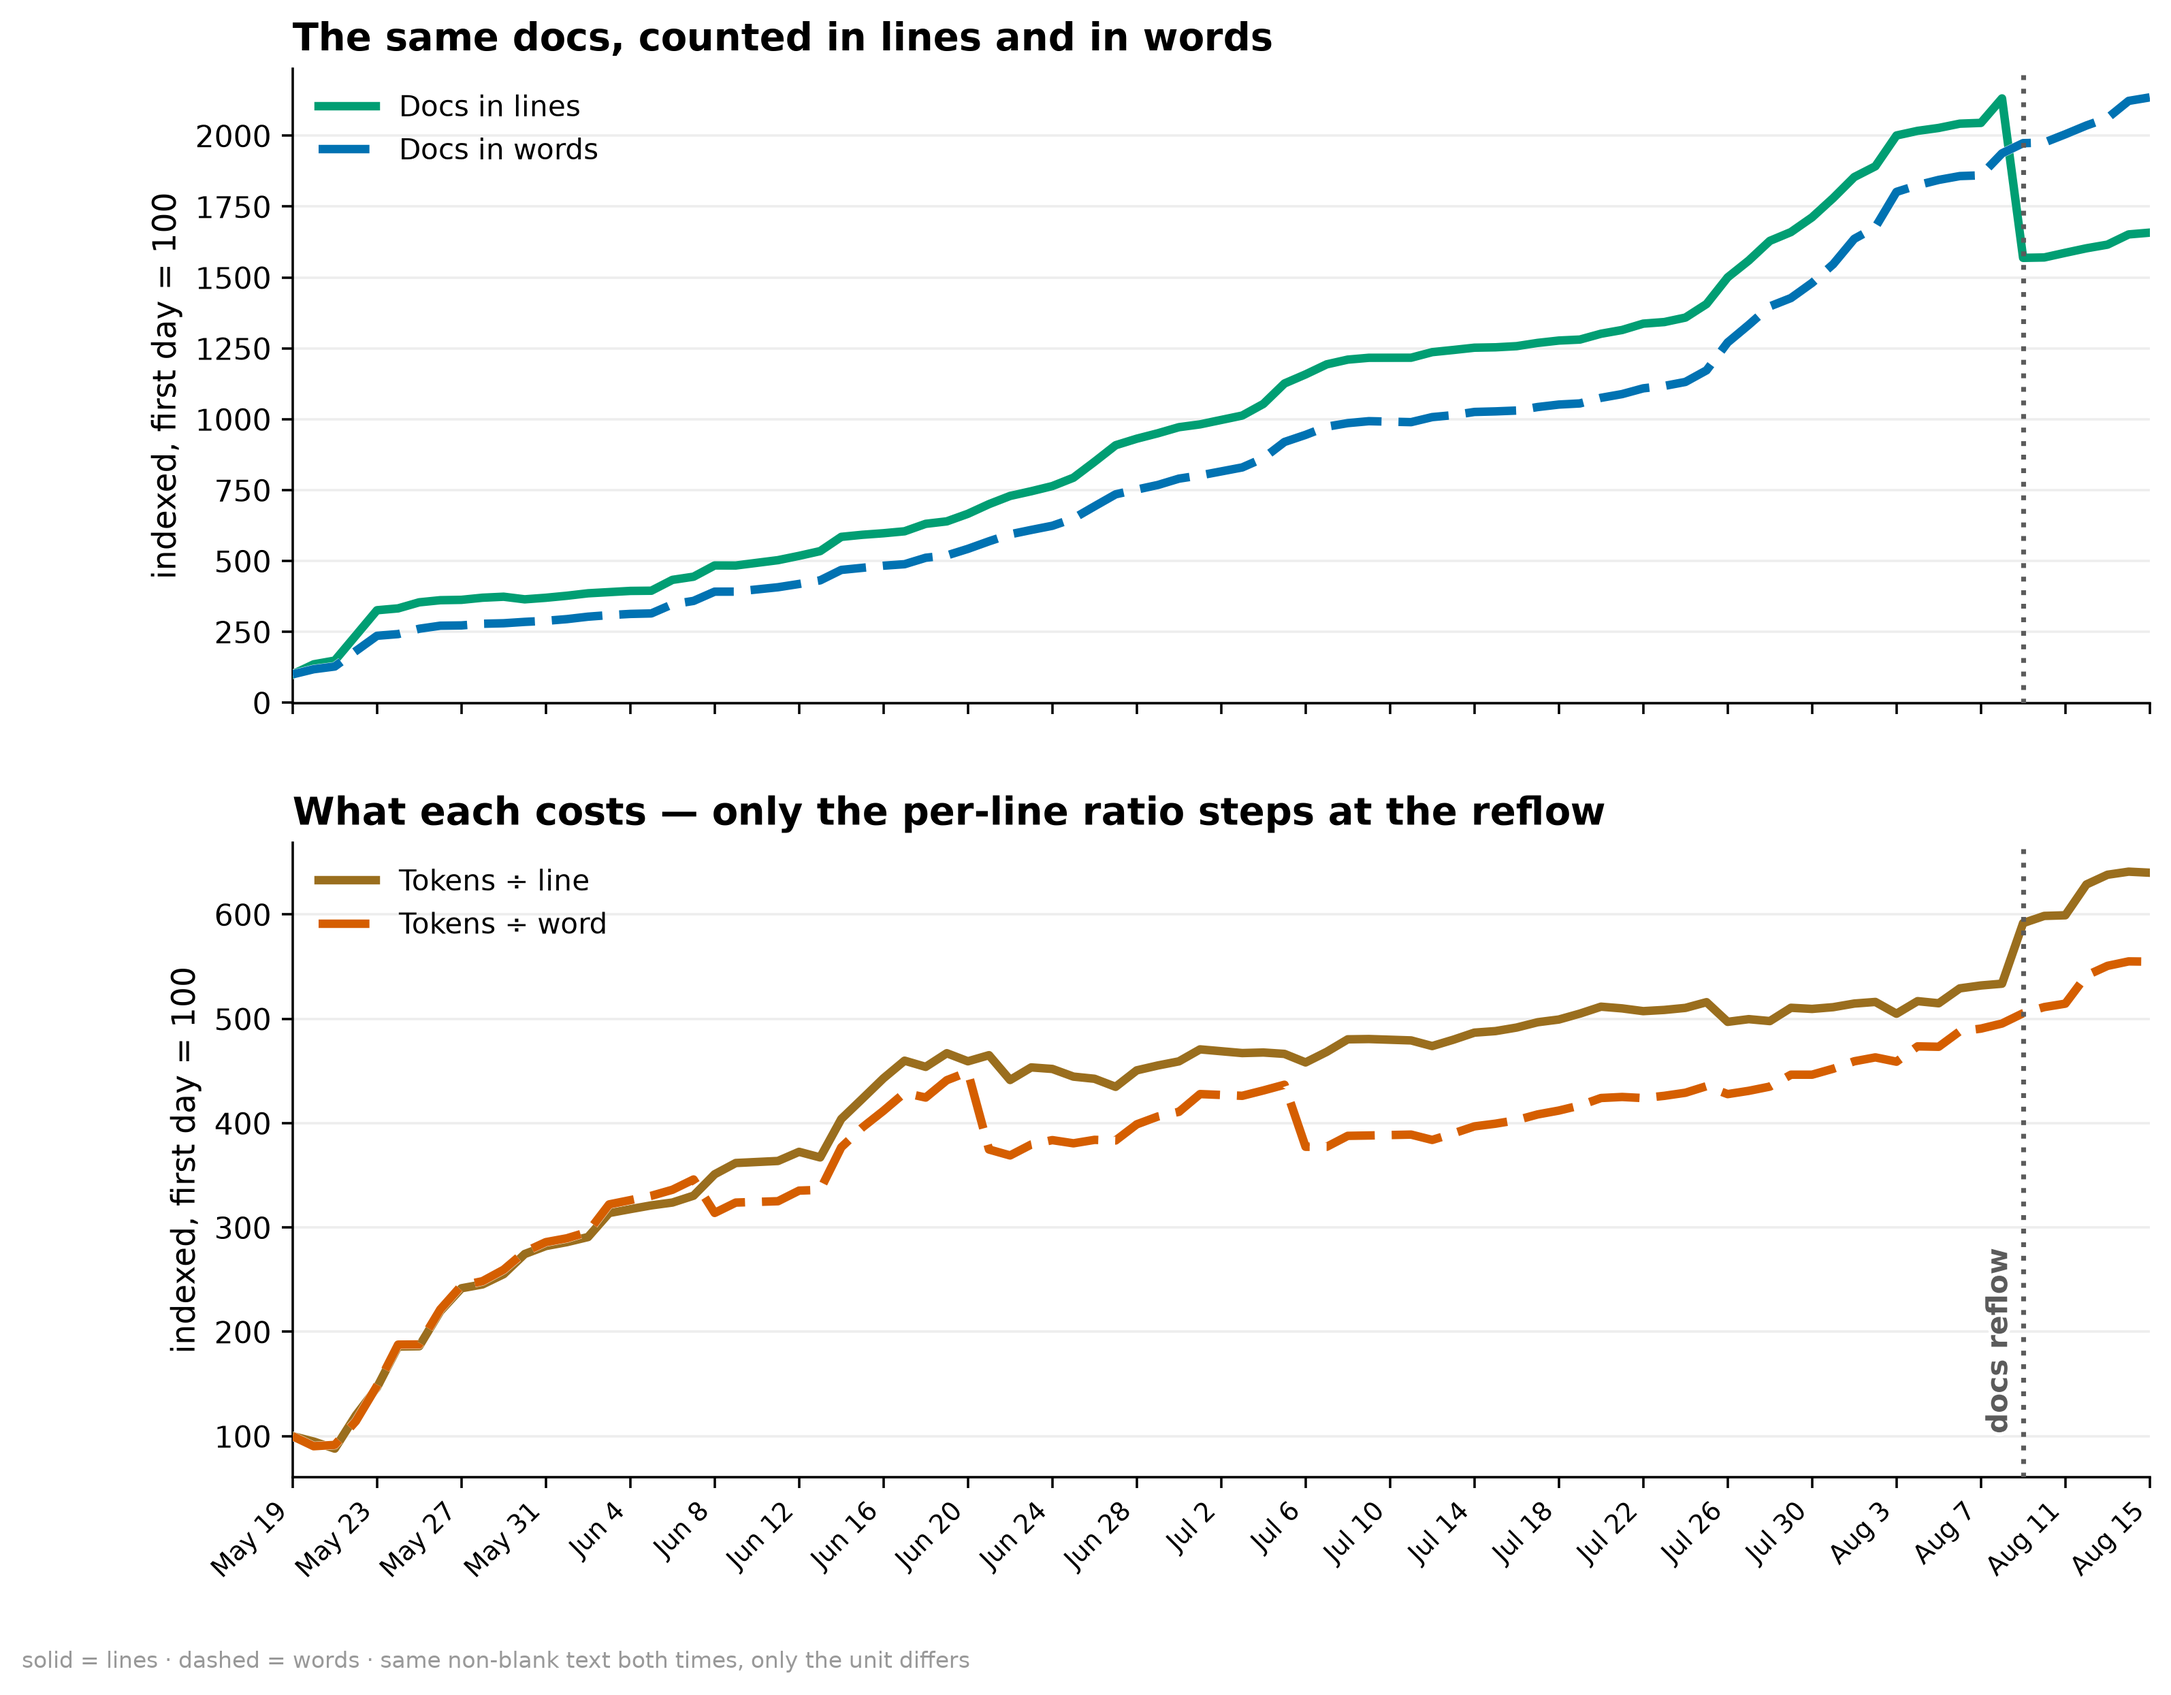
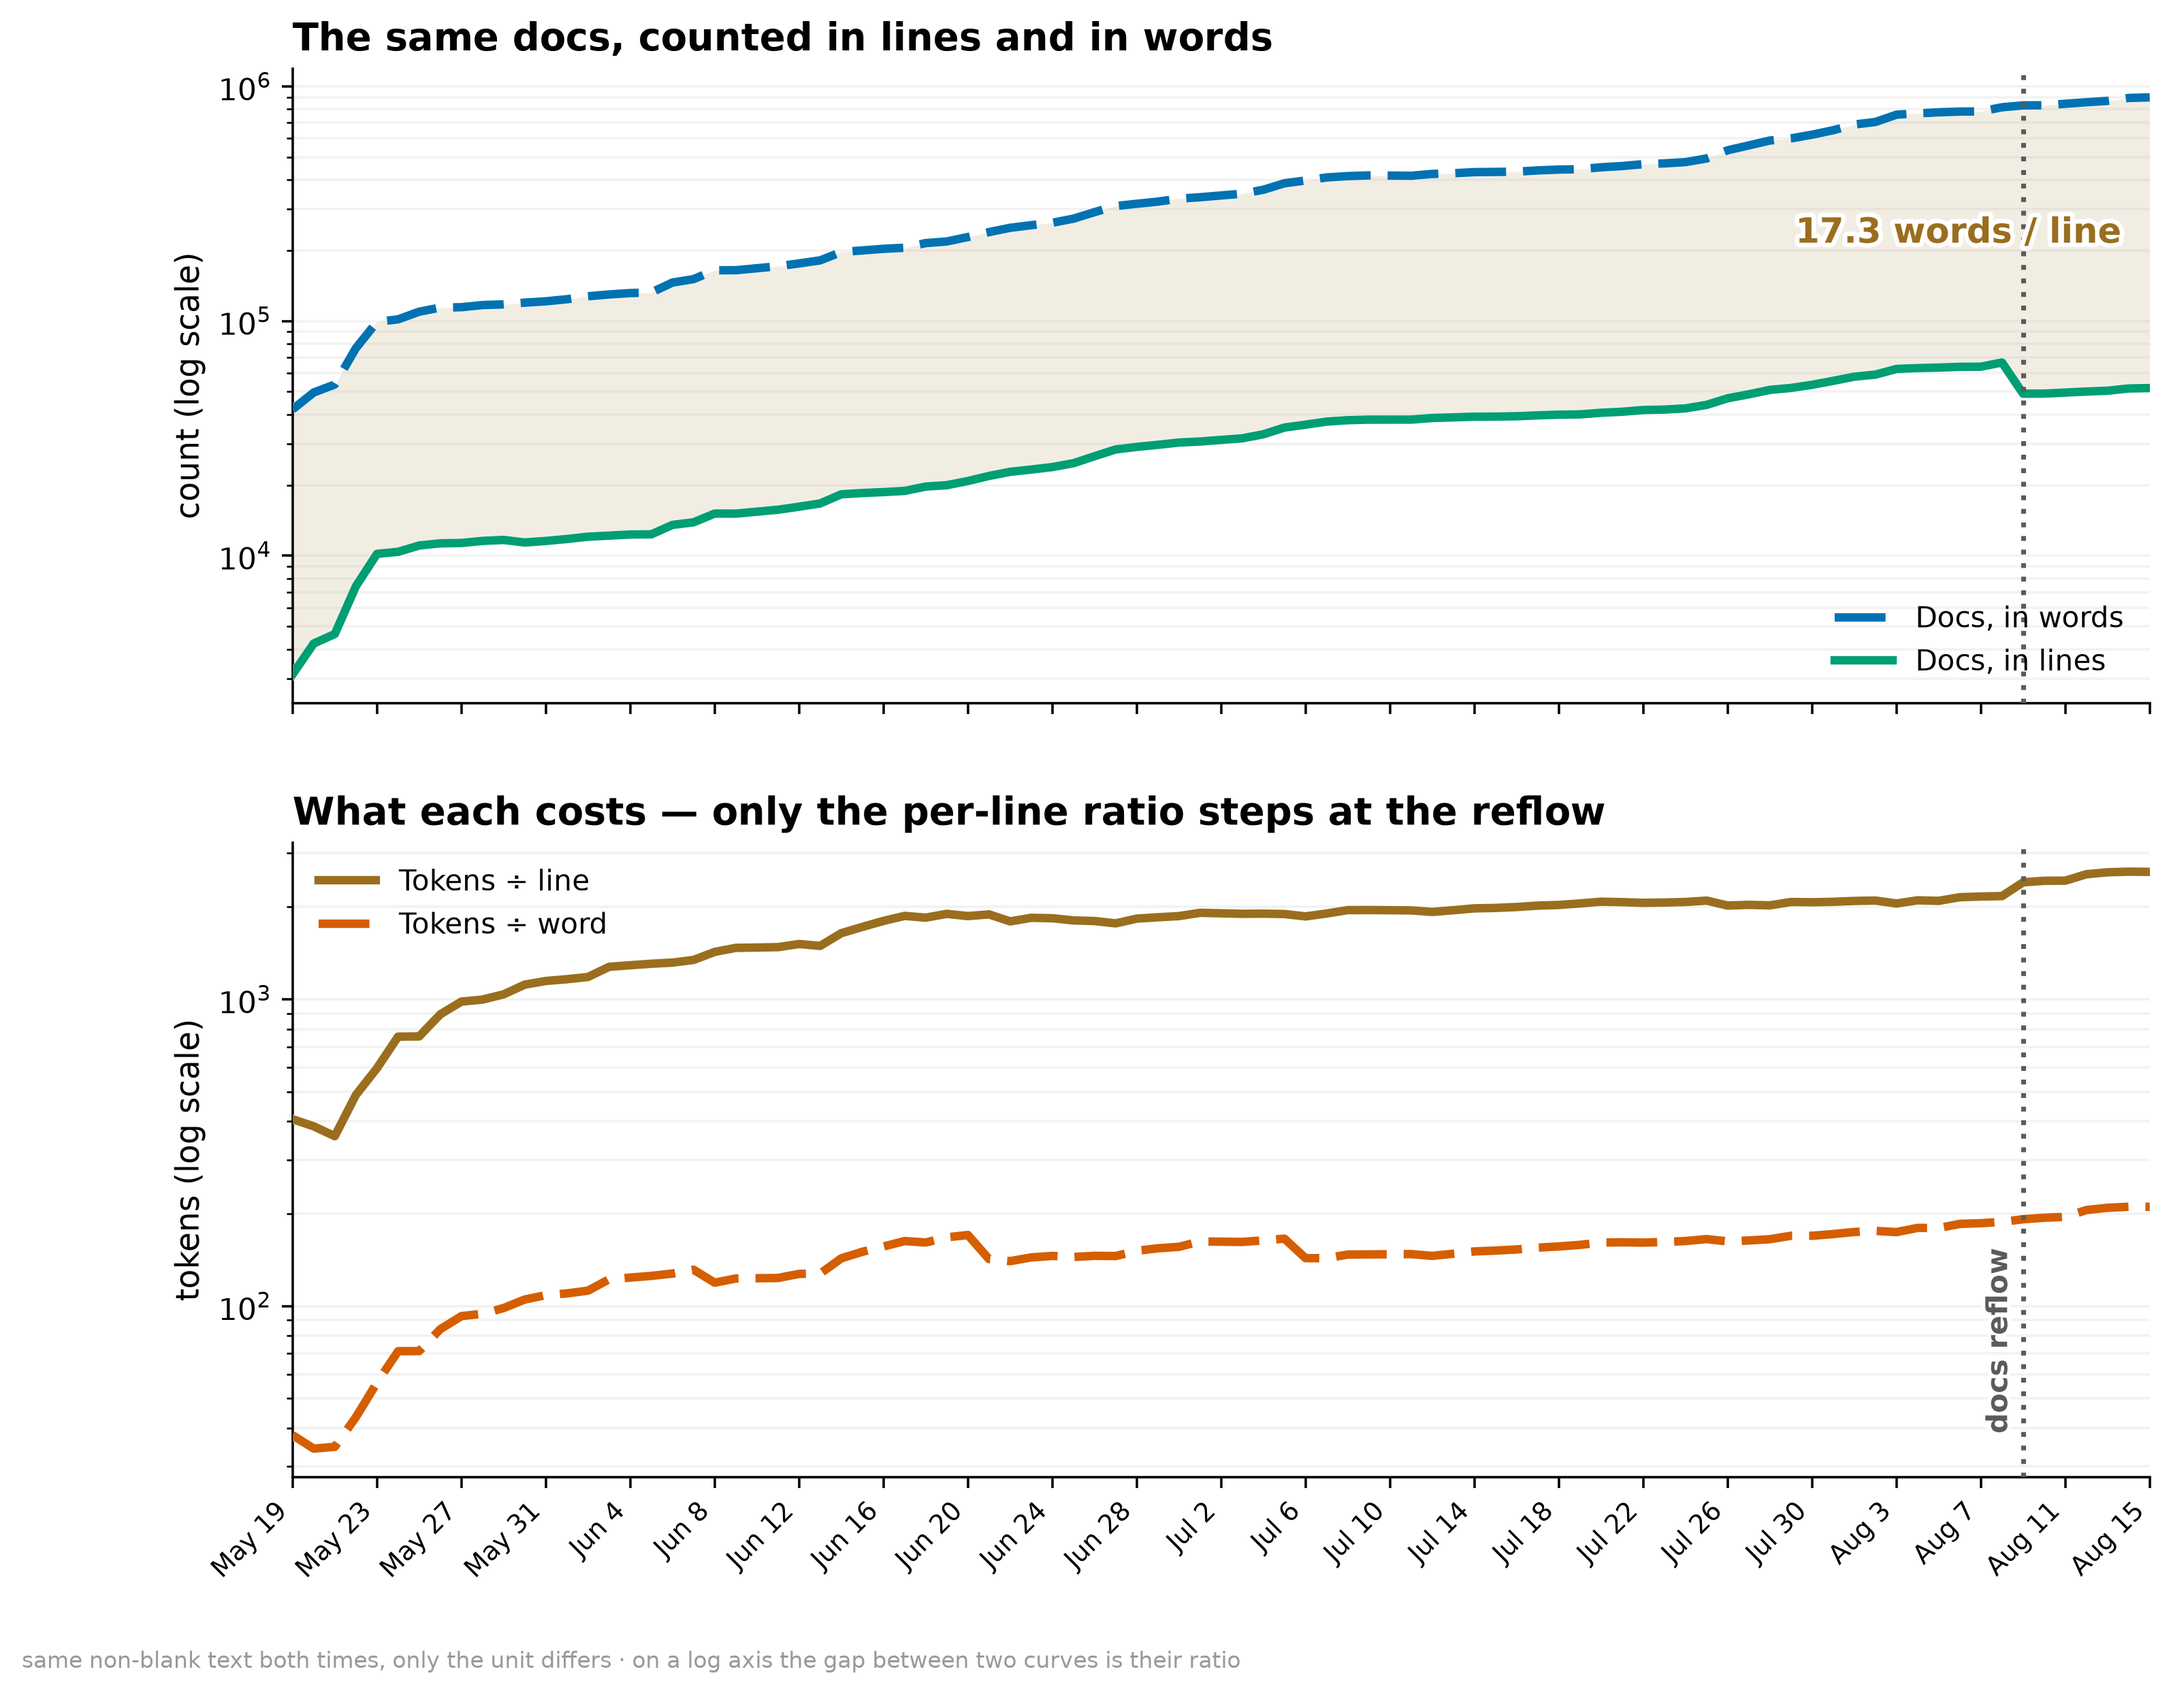
fix(metrics): draw lines vs words as absolute counts on a log axis
Indexing both series to 100 at the first day was the wrong call. It reads as
magnitude and is not, so two series 17x apart drew on top of each other and the
panel invited exactly the question "why are the lines so close together?".

Log y with absolute counts is what chart_tokens_vs_lines already does for the
same reason, and it pays twice: words sit visibly an order of magnitude above
lines, and the shaded gap between them is the words-per-line ratio, because on a
log axis a ratio is a vertical gap. That gap is the reflow mechanism made
legible. Sentence-per-line put the same words on fewer lines, so words per line
went 12.2 to 16.9 overnight and the band widens where the green curve cliffs.

Panel 2 keeps both cost ratios and moves its legend upper-left, where the reflow
markers rotated label no longer runs through it.

diff --git a/claude-usage/make_charts.py b/claude-usage/make_charts.py
@@ -950,41 +950,53 @@ def chart_lines_vs_words():
     alone, so drawing both puts the 2026-08-09 reflow where it belongs: a cliff in
     one series and nothing in the other.
 
-    Both panels are indexed to 100 at the first measured day and share one axis.
-    On twin axes each series is scaled to its own range, which flattens exactly the
-    divergence this chart exists to show — the per-line and per-word ratios looked
-    alike there while one had stepped and the other had not.
+    Log y, absolute counts, the same choice `chart_tokens_vs_lines` makes: words
+    outnumber lines by an order of magnitude, and on a linear axis the smaller
+    series is a sliver. Indexing both to a common baseline was worse still — it
+    reads as magnitude and is not, so two series 17x apart drew on top of each
+    other. On a log axis the vertical gap *is* the ratio, which is the mechanism
+    here: sentence-per-line put the same words on fewer lines, so the gap widens
+    at the reflow rather than either curve behaving strangely.
     """
     git, dates, xs, ys, cum_on, lines = _per_line_series()
     if not dates or "words" not in git[dates[0]]:
         return
 
-    def idx(vals):
-        base = next((v for v in vals if v), None)
-        return [100 * v / base for v in vals] if base else vals
-
-    md_l = idx([int(git[d].get("md") or 0) for d in dates])
-    md_w = idx([int(git[d].get("md_words") or 0) for d in dates])
+    md_l = [int(git[d].get("md") or 0) for d in dates]
+    md_w = [int(git[d].get("md_words") or 0) for d in dates]
     words = [int(git[d].get("words") or 0) for d in dates]
-    per_word = idx([cum_on[d] / w if w else 0 for d, w in zip(dates, words)])
-    per_line = idx(ys)
+    per_word = [cum_on[d] / w if w else None for d, w in zip(dates, words)]
 
     fig, (a1, a2) = plt.subplots(2, 1, figsize=(11, 8.4), sharex=True,
                                  gridspec_kw=dict(height_ratios=[1, 1], hspace=0.22))
-    series = [
-        (a1, md_l, md_w, ("Docs in lines", "Docs in words"), OI["green"], OI["blue"],
-         "The same docs, counted in lines and in words"),
-        (a2, per_line, per_word, ("Tokens ÷ line", "Tokens ÷ word"), GOLD, OI["vermillion"],
-         "What each costs — only the per-line ratio steps at the reflow"),
-    ]
-    for ax, sl, sw, (lab_l, lab_w), cl, cw, title in series:
-        ax.plot(xs, sl, color=cl, lw=2.8, zorder=4, path_effects=HALO, label=lab_l)
-        ax.plot(xs, sw, color=cw, lw=2.8, ls=(0, (6, 2)), zorder=4, path_effects=HALO,
-                label=lab_w)
-        ax.set_ylabel("indexed, first day = 100", fontsize=10.5)
-        ax.set_title(title, fontsize=12.5, fontweight="bold", loc="left")
-        ax.grid(axis="y", alpha=0.22)
-        ax.legend(loc="upper left", fontsize=9.5, frameon=False)
+
+    a1.set_yscale("log")
+    a1.fill_between(xs, md_l, md_w, color=GOLD, alpha=0.12, lw=0, zorder=1)
+    a1.plot(xs, md_w, color=OI["blue"], lw=2.8, ls=(0, (6, 2)), zorder=4,
+            path_effects=HALO, label="Docs, in words")
+    a1.plot(xs, md_l, color=OI["green"], lw=2.8, zorder=4, path_effects=HALO,
+            label="Docs, in lines")
+    a1.set_ylabel("count (log scale)", fontsize=10.5)
+    a1.set_title("The same docs, counted in lines and in words", fontsize=12.5,
+                 fontweight="bold", loc="left")
+    a1.annotate(f"{md_w[-1] / md_l[-1]:.1f} words / line", (xs[-1], (md_l[-1] * md_w[-1]) ** 0.5),
+                xytext=(-10, 0), textcoords="offset points", ha="right", fontsize=11.5,
+                fontweight="bold", color=GOLD, path_effects=HALO, zorder=LABEL_Z)
+
+    a2.set_yscale("log")
+    a2.plot(xs, ys, color=GOLD, lw=2.8, zorder=4, path_effects=HALO, label="Tokens ÷ line")
+    a2.plot([x for x, v in zip(xs, per_word) if v], [v for v in per_word if v],
+            color=OI["vermillion"], lw=2.8, ls=(0, (6, 2)), zorder=4, path_effects=HALO,
+            label="Tokens ÷ word")
+    a2.set_ylabel("tokens (log scale)", fontsize=10.5)
+    a2.set_title("What each costs — only the per-line ratio steps at the reflow",
+                 fontsize=12.5, fontweight="bold", loc="left")
+
+    # Panel 2's legend goes upper-left: the reflow marker's rotated label sits along
+    # the bottom, and lower-right put the two on top of each other.
+    for ax, loc in ((a1, "lower right"), (a2, "upper left")):
+        ax.grid(axis="y", which="both", alpha=0.16)
+        ax.legend(loc=loc, fontsize=9.5, frameon=False)
         ax.set_xlim(xs[0], xs[-1])
         for sp in ("top", "right"):
             ax.spines[sp].set_visible(False)
@@ -994,7 +1006,8 @@ def chart_lines_vs_words():
     a2.xaxis.set_major_locator(mdates.DayLocator(interval=4))
     plt.setp(a2.get_xticklabels(), rotation=45, ha="right", fontsize=8.5)
     fig.text(0.012, 0.006,
-             "solid = lines · dashed = words · same non-blank text both times, only the unit differs",
+             "same non-blank text both times, only the unit differs · "
+             "on a log axis the gap between two curves is their ratio",
              fontsize=7.5, color="#999")
     save(fig, "lines_vs_words")
 

diff --git a/claude-usage/README.md b/claude-usage/README.md
@@ -176,14 +176,15 @@ Two shaded regions mark where a series cannot yet mean what its axis says: befor
 **Panel 4 is not hours worked.** Sessions run unattended and keep committing with nobody watching, and merges get cleared in bulk, so it shows when work *landed* rather than when anyone was present.
 
 ### Lines vs. words, the same corpus in two units
-![Docs and cost ratios indexed, in lines and in words](charts/lines_vs_words.png) A rewrap moves every line count that spans a paragraph and leaves the words alone, which is what makes this pair readable.
+![Docs and cost ratios in lines and in words, log scale](charts/lines_vs_words.png) A rewrap moves every line count that spans a paragraph and leaves the words alone, which is what makes this pair readable.
 On the reflow day Markdown went **−17,574 lines and +15,098 words**.
 The line series reads as a catastrophe, the word series as an ordinary productive day.
 
-Both panels are indexed to 100 at the first measured day and share one axis, because on twin axes each series is scaled to its own range, which flattens exactly the divergence the chart exists to show.
-**Top:** the docs corpus in each unit.
+Log y, absolute counts, the same choice the tokens-vs-lines chart makes: words outnumber lines about 17 to 1, so a linear axis leaves the smaller series a sliver.
+**Top:** the docs corpus in each unit, with the shaded gap between them being the words-per-line ratio, since on a log axis a ratio is a vertical gap.
 **Bottom:** cumulative tokens ÷ line against tokens ÷ word.
 Only the per-line ratio steps on 2026-08-09.
+The gap in the top panel is where the mechanism shows: sentence-per-line put the same words on fewer lines, so words per line went from 12.2 to 16.9 overnight and the band visibly widens.
 
 The underlying climb is real in both units, which is the more interesting finding: cost per word still rose ~5.6× over the project, so the tokens-per-line trend is not an artifact; only the 2026-08-09 jump in it is ([Q824](../docs/STATUS.md#Q824)).
 
